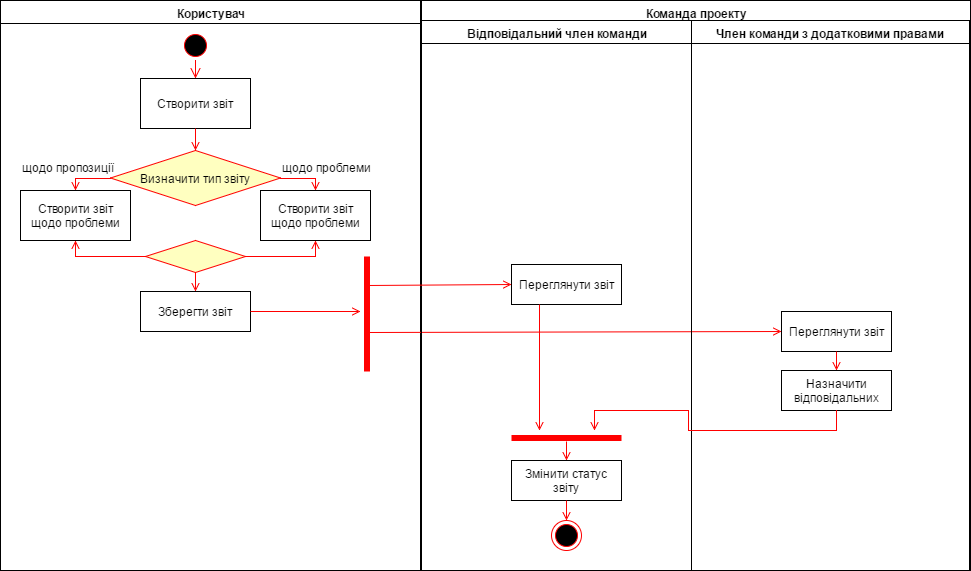
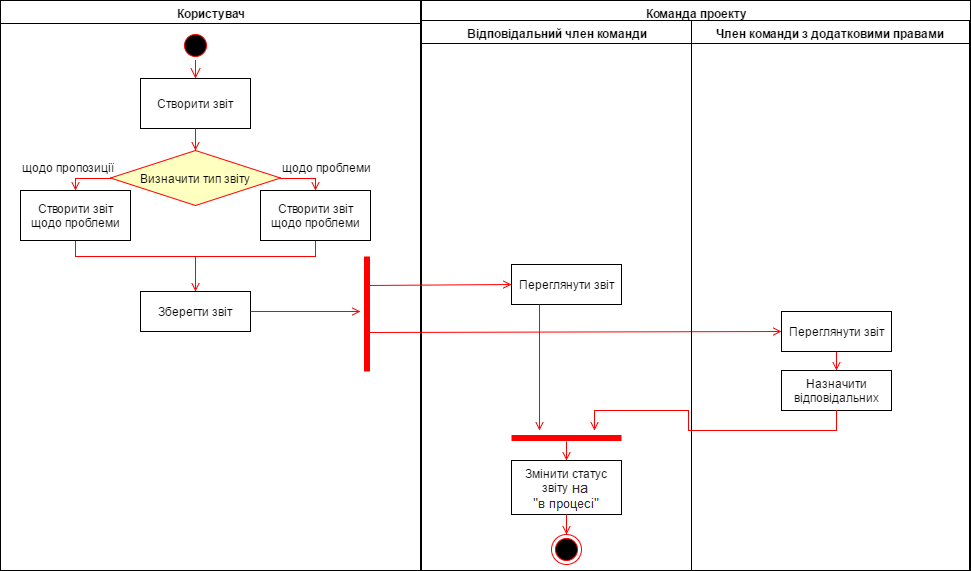
Fixed activity diagram.

Changed region(s): [[0.5252, 0.8336, 0.6179, 0.9825], [0.1545, 0.4168, 0.2472, 0.4764]]

diff --git a/sections/2.tex b/sections/2.tex
@@ -100,7 +100,7 @@
 	\begin{figure}[H]
 	\centering
 	\includegraphics[width=1\textwidth]{diagram_activity_1}
-	\caption{Діаграма діяльності при роботи зі звітами в багтрекері}
+	\caption{Діаграма діяльності при роботі зі звітами в багтрекері}
 	\end{figure}
 	
 	\subsection{Аналіз вимог до багтрекінгової системи за допомогою діаграми послідовності}
